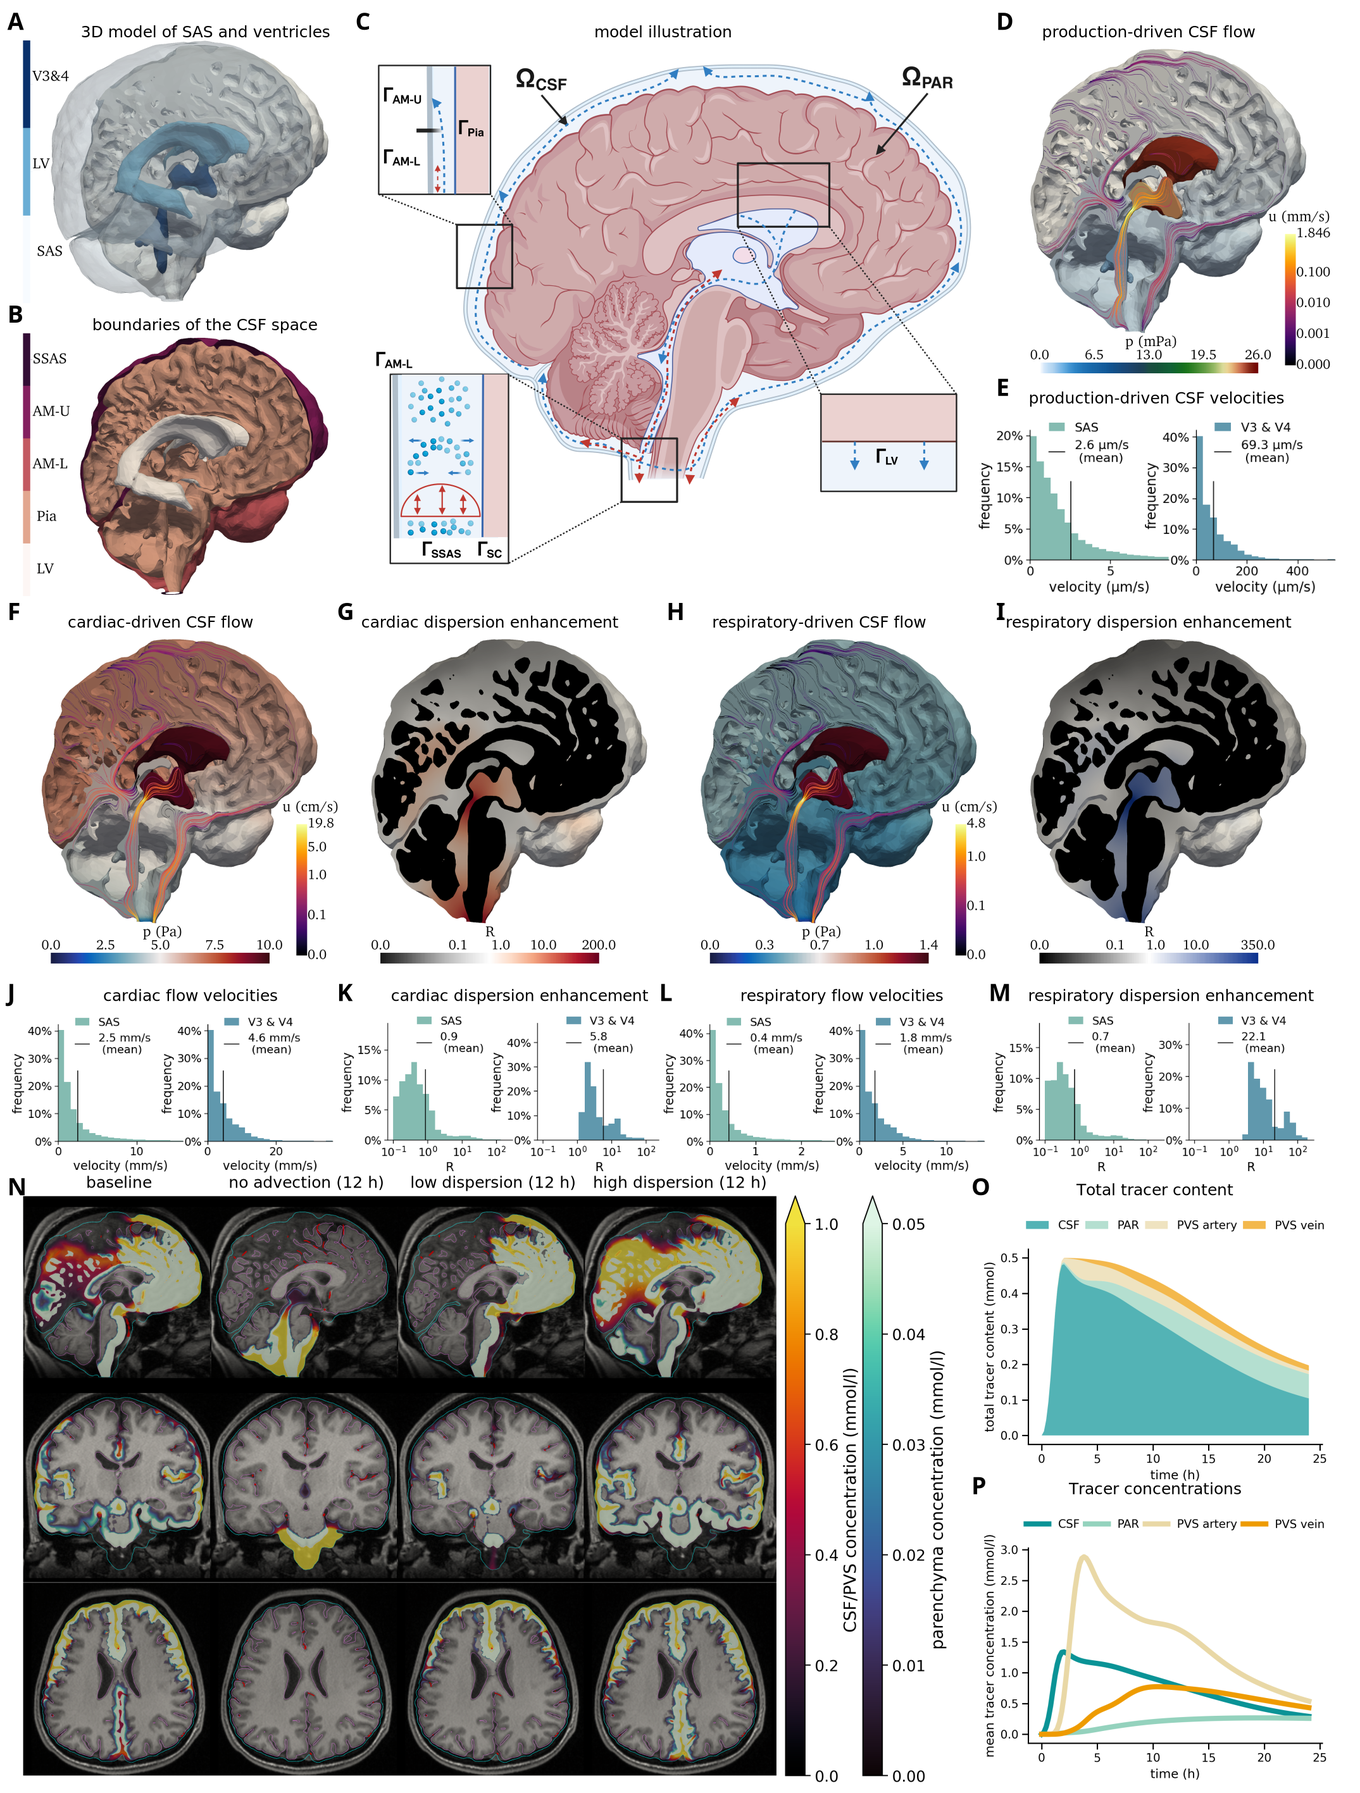
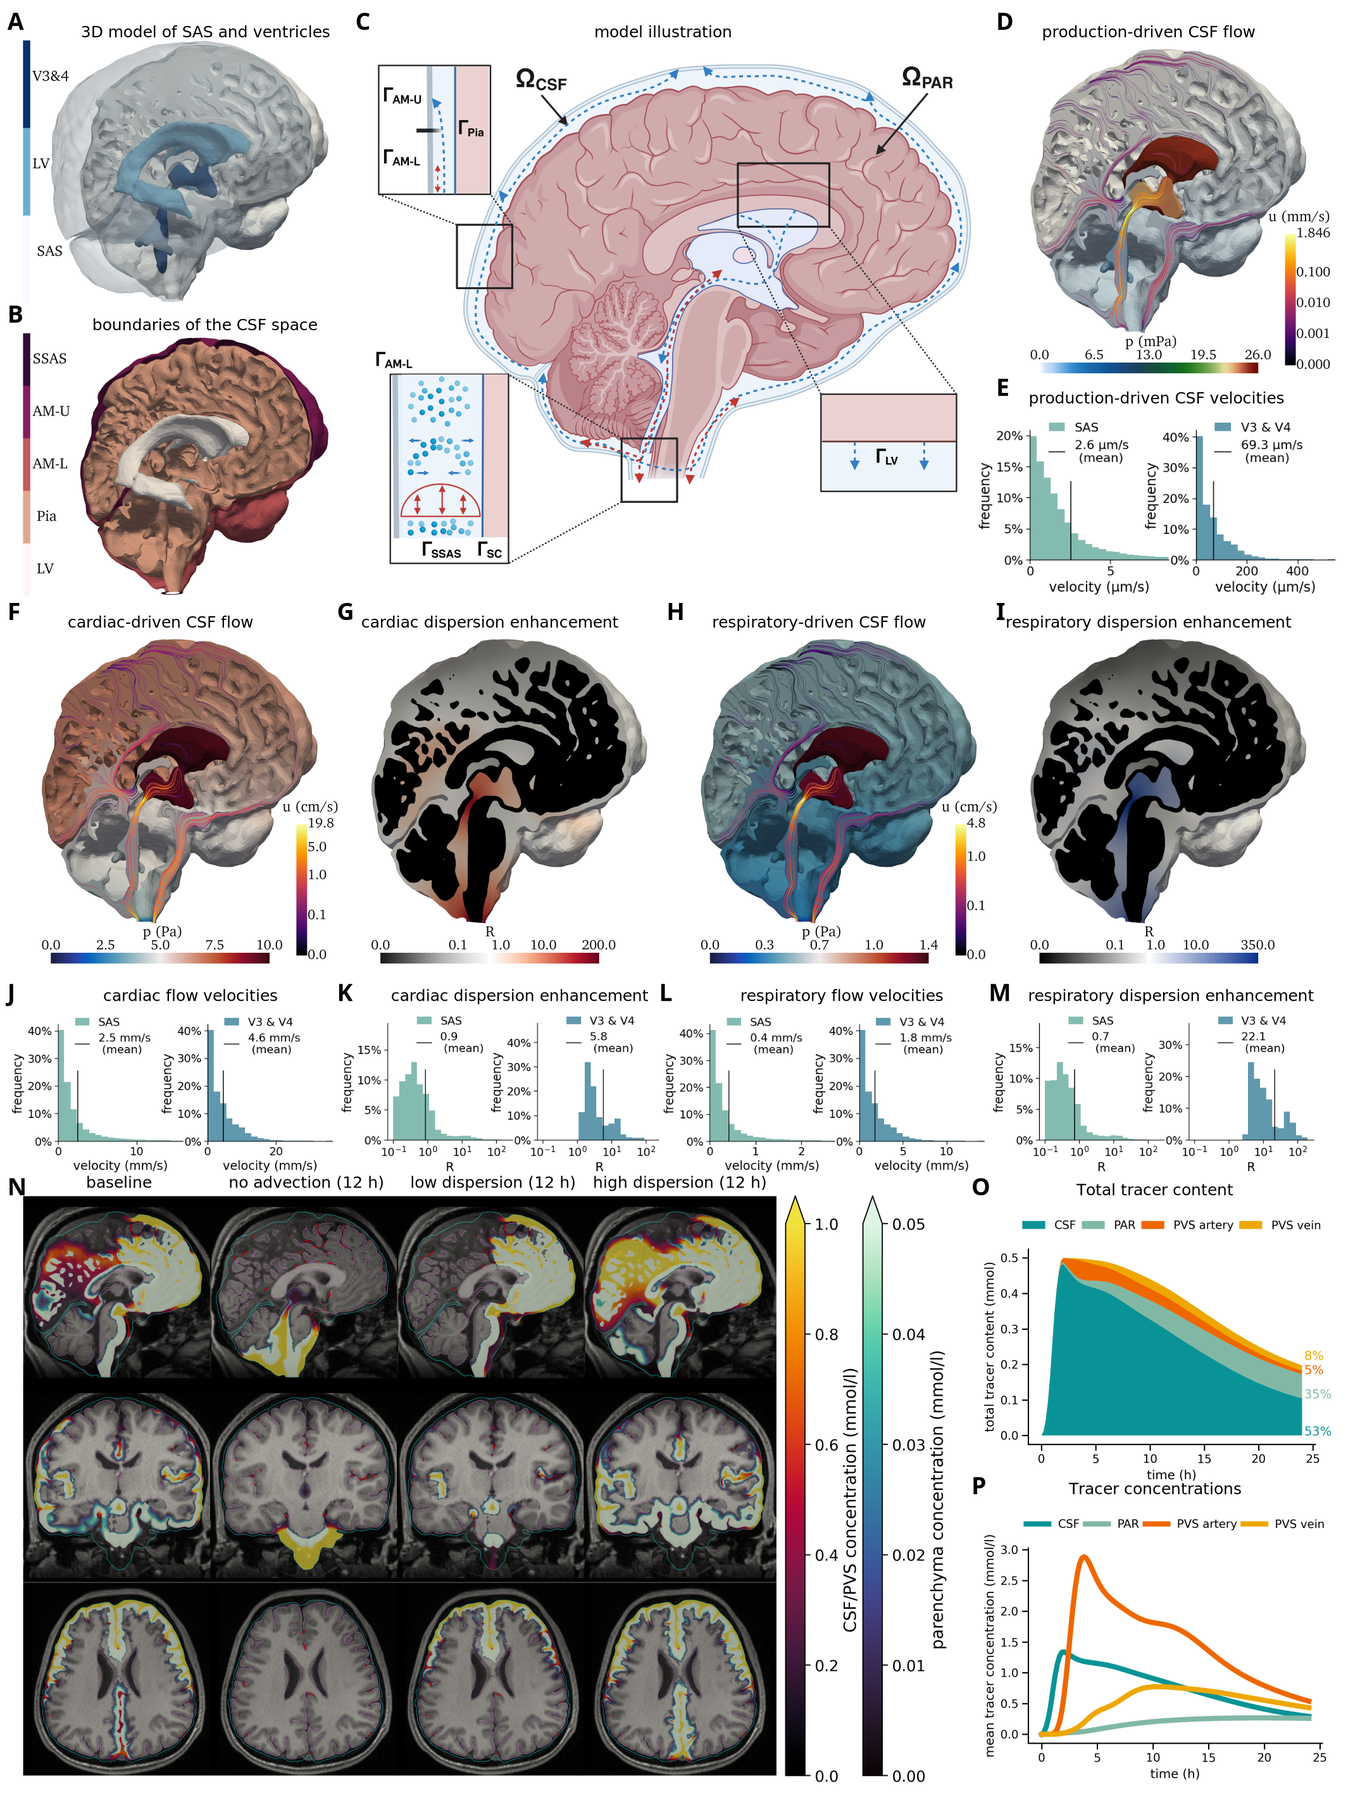
Updates from Overleaf

diff --git a/paper/main.tex b/paper/main.tex
@@ -37,6 +37,7 @@
 \newcommand{\rami}[1]{\textcolor{blue}{#1}}
 \newcommand{\mer}[1]{\textcolor{magenta}{#1}}
 \newcommand{\mar}[1]{\textcolor{violet}{#1}}
+\newcommand{\mk}[1]{\textcolor{orange}{#1}}
 \newcommand{\discuss}[1]{\textcolor{red}{#1}}
 \newcommand{\fixme}[1]{\textcolor{red}{#1}}
 \newcommand{\draft}[1]{\textcolor{gray}{#1}}
@@ -52,7 +53,6 @@
 %\affil[+]{these authors contributed equally to this work}
 
 %\keywords{Keyword1, Keyword2, Keyword3}
-
 
 %% The problem we are addressing here is that we would like to be able to
 %% understand, integrate and quantify the role of different mechanisms -
@@ -255,29 +255,24 @@ While cardiac- and respiratory induced oscillatory flow increases mixing, the pr
 We construct a 3D model of the SAS and the ventricular system (\Cref{fig:csf}A,B and C) and compute CSF flow fields for three different scenarios: CSF production in the choroid plexus, CSF flow at systolic peak blood inflow and CSF flow in response to free breathing.
 
 % production flow simulation
-To simulate the production-driven flow, we impose an inflow of $400\,$ml/day \cite{nilsson1992circadian} across the surface of the lateral ventricle and allow a resistive outflow across the upper convexity of the arachnoid mater, leading to a total pressure drop of $26\,$mPa between the production and outflow sites (\Cref{fig:csf}D). A maximum flow velocity of $1.8\,$mm/s is attained in the aqueduct, while the mean velocity in the SAS is $2.6\,\mu$m/s (\Cref{fig:csf} E).
-
-%The Stokes system is solved with the finite element software $FEniCS$, stored and then subsequently read for all the relevant solute transport simulations. See Figure~\ref{fig:csf} for a streamline visualization of the obtained velocity profile and \Cref{sec:details_numerical_method} for details on the numerical algorithm employed.
+To simulate the production-driven flow, we impose an inflow of $400\,$ml/day across the surface of the lateral ventricle and allow a resistive outflow across the upper convexity of the arachnoid mater, leading to a total pressure drop of $26\,$mPa between the production and outflow sites (\Cref{fig:csf}D). A maximum flow velocity of $1.8\,$mm/s is attained in the aqueduct, while the mean velocity in the SAS is $2.6\,\mu$m/s (\Cref{fig:csf} E).
 
 % cardiac pulsatility
-Assessing the effect of cardiac-driven dispersion, we compute a steady CSF flow field at peak systolic blood inflow. We mimic the resulting reduction of CSF space volume by imposing an inflow of $6\,$ml/s \cite{baledent2014imaging, causemann2022human} and $0.31\,$ml/s \cite{vinje2019respiratory} across the upper arachnoid mater ($\Gamma_{\rm AM-U}$) and the lateral ventricle ($\Gamma_{\rm VL}$) surface, respectively. We allow free outflow into the spinal SAS ($\Gamma_{\rm SSAS}$). In addition, we upscale the obtained pressure field to account for the lack of pulsatile inertial effects in our model (see \ref{sec:dispersion_details}). In this scenario, we observe a pressure drop of $10\,$Pa between lateral ventricles and the spinal SAS and a maximum flow velocity of $19.8\,$cm/s in the aqueduct (\Cref{fig:csf}F and J).
-Next, we estimate a spatially varying dispersion enhancement factor $R$ from cardiac-induced pulsatility by combining the computed pressure field with the theory of shear-augmented dispersion (see \Cref{sec:dispersion_details}). Assuming a cardiac frequency of $1\,$Hz, find that cardiac-induced pulsatile CSF flow increases the effective diffusion by up to two orders of magnitude in the aqueduct and around the cisterna magna, but has little effect in most of the SAS ($R < 1$) (\Cref{fig:csf} G and K). 
+Assessing the effect of cardiac-driven dispersion, we compute a steady CSF flow field at peak systolic blood inflow. We mimic the resulting reduction of CSF space volume by imposing an inflow of $6\,$ml/s \cite{baledent2014imaging, causemann2022human} and $0.31\,$ml/s \cite{vinje2019respiratory} across the upper arachnoid mater ($\Gamma_{\rm AM-U}$) and the lateral ventricle ($\Gamma_{\rm VL}$) surface, respectively. We allow free outflow into the spinal SAS ($\Gamma_{\rm SSAS}$). In addition, we upscale the obtained pressure field to account for the lack of pulsatile inertial effects in our model (see \Cref{sec:csf_dispersion}). In this scenario, we observe a pressure drop of $10\,$Pa between lateral ventricles and the spinal SAS and a maximum flow velocity of $19.8\,$cm/s in the aqueduct (\Cref{fig:csf}F and J).
+Next, we estimate a spatially varying dispersion enhancement factor $R$ from cardiac-induced pulsatility by combining the computed pressure field with the theory of shear-augmented dispersion (see \Cref{sec:csf_dispersion}). Assuming a cardiac frequency of $1\,$Hz, we find that cardiac-induced pulsatile CSF flow increases the effective diffusion by more than two orders of magnitude in the aqueduct and around the cisterna magna, but has little effect in most of the SAS ($R < 1$) (\Cref{fig:csf} G and K). 
 
 % respiratory pulsatility
-Employing the same methodology, we estimate the respiratory contribution to dispersive mixing by computing the CSF flow field driven by an inflow of $0.121\,$ml/s \cite{liu2024using} and $1\,$ml/s \cite{gutierrez2022effect} across the lateral ventricular wall and the arachnoid mater, respectively. This amounts to a respiratory peak flow volume of $1.121\,$ ml/s at the craniocervical junction \cite{gutierrez2022effect}. While the resulting flow velocities are only about one fourth of their cardiac-induced counterparts (see \Cref{fig:csf}H and L), respiratory dispersive mixing reaches a factor of up to 350 due the lower respiratory frequency ($0.25\,$Hz) (\Cref{fig:csf}I and M).
+Employing the same methodology, we estimate the respiratory contribution to dispersive mixing by computing the CSF flow field driven by an inflow of $0.121\,$ml/s \cite{liu2024using} and $1\,$ml/s \cite{gutierrez2022effect} across the lateral ventricular wall and the arachnoid mater, respectively. This amounts to a respiratory peak flow volume of $1.121\,$ ml/s at the craniocervical junction. While the resulting flow velocities are only about one fourth of their cardiac-induced counterparts (see \Cref{fig:csf}H and L), respiratory dispersive mixing reaches a factor of up to 350 due the lower respiratory frequency of $0.25\,$Hz (\Cref{fig:csf}I and M).
 
 
 % tracer trajectory of the standard model
-Next, we use the computed advective velcity field and dispersion enhancement factors to predict the spreading of $0.5\,$mmol intrathecally injected Gadobutrol in CSF-filled spaces, the parenchymal tissue and PVSs around arteries and veines. One hour post-injection, tracer moves upwards in the SAS frontally of the brainstem,  and quickly reaches supratentorial regions (\Cref{fig:csf}N). Here, it spreads both posteriorly through the longitudinal fissure and anteriorly through the outer SAS, reaching the top of the cerebral cortex after around 12 h. After 24h, the tracer covers most of the brains surface (with exception of some posterior regions) and has penetrated several centimeters into the parenchymal tissue.
+Next, we use the computed advective velocity field and dispersion enhancement factors to predict the spreading of $0.5\,$mmol intrathecally injected Gadobutrol in CSF-filled spaces, the parenchymal tissue and PVSs around arteries and veines. We assume pressure-driven flow in arterial and venous PVSs, and cardiac peristaltic flow in the arterial network (\Cref{sec:pvs_flow_results}). One hour post-injection, tracer moves upwards in the SAS frontally of the brainstem,  and quickly reaches supratentorial regions (\Cref{fig:csf}N). Here, it spreads both posteriorly through quadrigeminal cistern and longitudinal fissure, and anteriorly through the outer SAS, reaching the top of the cerebral cortex after around 12 h. After 24h, the tracer covers most of the brains surface (with exception of some posterior regions) and has penetrated several centimeters into the parenchymal tissue.
+This pattern of transport is reflected in the mean tracer concentrations in each compartment, where the CSF space reaches its peak of $1.4\,$mmol/l after 2 hours, followed by the the arterial PVS concentration peak ($2.9\,$mmol/l after 4 hours) (\Cref{fig:csf}P).  While the mean concentrations in these compartments fall quickly soon after their peaks, the parenchymal tissue slowly enriches with tracer over the first 24 hours, with a final value of $0.3\,$ mmol/l.
+Overall, about 40\,\% of the total amount of tracer remains in the cranium 24\,h post-injection, with the largest share in the CSF (53\,\%), followed by the parenchyma (35\,\%), the venous PVS (8\,\%) and the arterial PVS (5\,\%). (\cref{fig:csf}O).
 
 % tracer trajectory of model variations
 
-
-\begin{itemize}
-    \item only dispersion model: No production flow. Tracer remains in the subtentorial regions, in cerebellum, brain stem and surrounding CSF. In contrast to other models, it travels up the ventricular system - similar to what is observed in iNPH patients?
-    \item Low dispersion model: account for uncertainty (or pathologies with impaired pulsatile motion?) - tracer exclusively spreads in the frontal half of the brain. Bifurcation of CSF production flow field: flow bifurcates around the midbrain in two directions: a) through the quadrigeminal cistern into the longitudinal fissure and b) frontally around the brain through the outer SAS. Only models with "enough" dispersion enable tracer to follow trajectory a).
-    \item without tentorium: 
-\end{itemize}
+Finally, we illustrate the contribution of the respective transport mechanisms comparing the full model (production-driven advection, cardiac- and respiration enhanced dispersion) with three reduced models: No advective velocity field, decreased dispersion ($R \times 0.1$) and increased dispersion ($R \times 10$) (corresponding to lower and higher pulsatilty, respectively) (\Cref{fig:csf}N). Without production induced CSF flow, transport it considerably delayed. After $12\,$h tracer remains in the subtentorial regions around the cerebellum, the brain stem and in the surrounding CSF. Interestingly, the lack of CSF production allows tracer to travel upwards through the ventricular system, reaching the third ventricle after around $12\,$h. The low dispersion model exhibits simililarly rapid transport towards the upper convexity of the cranium as the full model, but predicts tracer spreading exclusively within the anterior regions of the brain. At the flow bifurcation around the midbrain, only the full and high dispersion models feature tracer movement through the quadrigeminal cistern and further upwards into the longitudinal fissure.
 
 \begin{figure}[h!]
 \centering 
@@ -303,31 +298,32 @@ P) mean tracer concentration in each compartment;
 \label{fig:csf}
 \end{figure}  
 
-\subsection*{The significance of perivascular spaces as flow highways}
-\begin{itemize}
-\item
-  Perivascular flow and transport has been identified as a key
-  mechanism and potential target for enhancing brain drug delivery and
-  metabolic waste clearance -- what are the global (intracranial)
-  effects of such intracranial highways? 
-\item
-  Do solutes move from PVS to the SAS, or both along the PVS and along
-  the SAS?
-\end{itemize}
+\subsection{The significance of perivascular spaces as flow highways}
+\label{sec:pvs_flow_results}
+
+Perivascular spaces have emerged as critical pathways for fluid flow and solute transport in the brain, making them potential targets for enhancing brain drug delivery and metabolic waste clearance. The question of potential drivers of rapid fluid flow in PVS and the effects on intracranial solute transport remains a key question in the field. We investigate the PVS flow velocities resulting from a transmantle pressure gradient, cardiac peristalsis and vasomotion-induced flow in a recontructed arterial network and illustrate the effect of the obtained PVS flow fields on the spreading patterns of intrathecally injected tracer. Further, we explore whether solutes move exclusively from the PVS to the SAS, or bidirectionally along both pathways by comparison of first-arrival times along major cerebral arteries.
 
 \paragraph{PVS Flow velocities}
-\begin{itemize}
-    \item we consider three different PVS flow fields: PVS flow driven by production field pressure differences, cardiac peristaltic flow and vasomotion peristaltic flow. 
-\end{itemize}
+
+To investigate PVS flow velocities, we extract the the centerlines and associated radii of the arterial network from data \cite{hodneland2019new}, and label the main cerebral arteries (Figure 3A+C). We consider three different PVS flow fields: flow driven by CSF production-induced pressure differences, cardiac peristaltic flow, and vasomotion peristaltic flow (\Cref{fig:pvs}B). Pressure-driven flow velocities are computed by solving one-dimensional flow equations with pressure boundary conditions derived from the production field. Cardiac- and vasomotion-driven PVS flow velocities are obtained from semi-analytical estimates for peristaltic flow, assuming a frequency of 1\,Hz, a 1\,\% radius change, and a wavelength of 2 meters for cardiac flow, and a frequency of 0.1\,Hz, a 10\,\% radius change, and a wavelength of 2\,cm for vasomotion.
+
+The production-driven pressure gradient induces low flow velocities, with an average velocity of 0.08\,\textmu m and a maximum velocity of 0.55\,\textmu m (\Cref{fig:csf}D+H). In contrast, cardiac-driven velocities are approximately one order of magnitude higher, with an average velocity of 0.92\,\textmu m and a maximum velocity of 7.31\,\textmu m (\Cref{fig:pvs}E+H). Vasomotion-driven PVS flow reach substantially higher velocities, up to 54\,\textmu m, with an average of 13.05\,\textmu m. For all drivers of PVS flow, the majority of flow occurred in the direction of blood flow, with only a small fraction in the opposing direction (\Cref{fig:pvs}H).
+
+\paragraph{Differences in PVS flow velocities substantially alter tracer enrichment patterns around major cerebral arteries}
+
+Using the computed PVS flow velocities, we predict the effect of rapid PVS flow on intracranial transport by comparing a slow transport model (pressure-driven and cardiac-driven PVS flow) with a high-velocity model that accounts for all three mechanisms (pressure-, cardiac-, and vasomotion-driven). In both models, tracers were first observed 48 minutes after injection at the basal artery (\Cref{fig:pvs}G), defined by the first-time arrival (FTA), the time at which concentration first exceeds $0.1\,$mmol/l.
+
+At all upstream locations along the middle cerebral arteries (MCAs) and anterior cerebral artery (ACA), we found substantially reduced FTAs in the rapid PVS flow model (\Cref{fig:pvs}G+N). Furthermore, peak concentrations in the PVS were attained earlier than in the surrounding tissue (0:48h / 1:12h at the MCA and 1:00h / 1:48h at MCA2) in the vasomotion model, while concentrations peaked more simultaneously in the low-velocity model. The earlier occurrence and delay in peak time between the PVS and surrounding tissue indicate the directionality of tracer enrichment — it first arrives in the PVS and subsequently spreads into the tissue and SAS, especially in the vasomotion model.
+
+The difference in tracer spreading observed at the MCA/ACA points also holds on an aggregated level in the whole arterial PVS. Computing the total amount of tracer in the PVS depending on the distance to the arterial network's inlet nodes (basal artery (BA), left internal carotid artery (ICA-L), or right internal carotid artery (ICA-R)), we find more rapid transport of tracer in the vasomotion model. We also investigat the potential effect of increased dispersion in the PVS, finding that adding a dispersion enhancement factor of 100 in the PVS only induced minor changes in the global spreading rate (\Cref{fig:pvs}J). However, differences in tracer transport along the PVS translate to altered enrichment patterns on a whole-organ scale. For instance, after 4-6 hours, the faster-moving tracer in the PVS is clearly visible in the adjacent spaces of the ACA, MCA, and other arteries in sagittal, coronal, and axial planes of the whole organ (\Cref{fig:pvs}O). In contrast, the model with only pressure- and cardiac-driven PVS flow does not exhibit clear signs of accelerated tracer transport along the PVS.
 
 
 \begin{figure}
     \centering
     \includegraphics[height=\textheight]{figures/figure3.png}
-    \caption{\mer{MER: Put vasculature network illustration here. Many aspects actually. Marking of segments. Location relative to 3D. Radius etc. Marius will evaluate and suggest. Results: Group segments by logical order. For key arterial segments: average radius and length (can be moved to Supplementary if need be); pressure values; flow velocities; and then histograph with flow velocities for each mesh cell. Make sure to minorly note that ACA refers to a segment of the ACA and not the whole thing e.g.}}
+    \caption{}
     \label{fig:pvs}
 \end{figure}
-\Cref{fig:pvs}.
 
 \subsection*{Structural versus functional compartmentalization of perivascular spaces}
 
@@ -376,7 +372,7 @@ references in Background.
 
 \bigskip
 
-\FloatBarrier
+Group\FloatBarrier
 \newpage
 %%%%%%%%%%%%%%%%%%%%%%%%%%%%%%%%%%%%%%%%%%%%%%%%%%%%%%%%%%%%%%%%%%%%%%%%%%%%%%%%%%%%%
 %%%%%%%%%%%%%%%%%%%%%%%%%%%%%%%%%%%%%%%%%%%%%%%%%%%%%%%%%%%%%%%%%%%%%%%%%%%%%%%%%%%%%
@@ -558,7 +554,7 @@ in the SAS with a rate constant $\beta_{\rm exit}$. We set a no-flux
 condition at the end nodes of the perivascular networks, not allowing
 for direct molecular clearance there.
 
-\subsection*{CSF flow in the SAS and ventricular system}
+\subsection{CSF flow in the SAS and ventricular system}
 \label{sec:csf_fluid_vel}
 
 We model CSF as an incompressible Newtonian fluid at low Reynolds and
@@ -577,7 +573,8 @@ directly model convection within the brain tissue (beyond the
 perivascular spaces), and thus set $\bm u = 0$ in $\Omega_{\rm PAR}$
 in~\eqref{eq:multi_transport}.
 
-\subsection*{Dispersion in the CSF spaces}
+\subsection{Dispersion in the CSF spaces}
+\label{sec:csf_dispersion}
 
 The pulsatile flow of CSF in the SAS and ventricular system,
 associated with the cardiac and respiratory cycles, substantially

diff --git a/paper/supplementary_main.tex b/paper/supplementary_main.tex
@@ -212,6 +212,7 @@ via a homogeneous Neumann condition augmenting~\eqref{eq:1d_pde}:
     \label{eq:1d_bcs}
 \end{equation}
 
+\mk{What is justification of \eqref{eq:1d_bcs}?}
 %% Both $\Omega$ and $\Lambda$ are fixed in time and we assume
 %% constant-in- time radii (despite varying radii to drive peristaltic
 %% flow, see \cref{sec:sup:peristalsis}). 
@@ -270,7 +271,7 @@ defined for each $\Lambda^i$ by solving:
 \end{alignat} 
 \label{eq:1d_flow}%
 \end{subequations}%
-where $A$ is the area of the PVS cross-sections, $\mu$ is the CSF viscosity as before, and $\kappa$ is derived from an assumption of Poiseuille flow in the annular cross-section of the PVS as~\cite{tithof2022network}: 
+where $A$ is the area of the PVS cross-sections, $\mu$ is the CSF viscosity as before, and $\kappa$ is derived from an assumption of Poiseuille flow in the annular cross-section of the PVS as~\cite{tithof2022network}:  \rami{Here,  we consider the steady state  case and we assume that the PVS domain is fixed and not pulsating  }
 \begin{equation}
 \kappa = \frac18 \left( R_2^2 + R_1^2 - \frac{1}{\ln(R_2/R_1)} (R_2^2- R_1^2) \right). 
 \end{equation}
